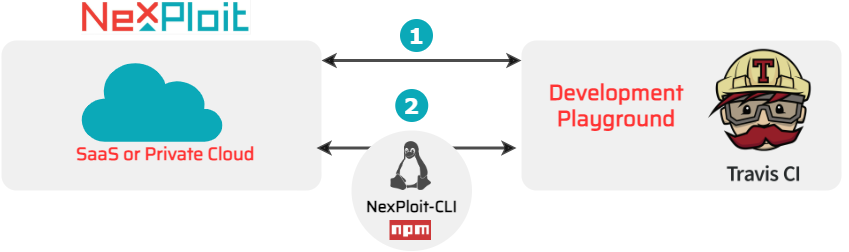
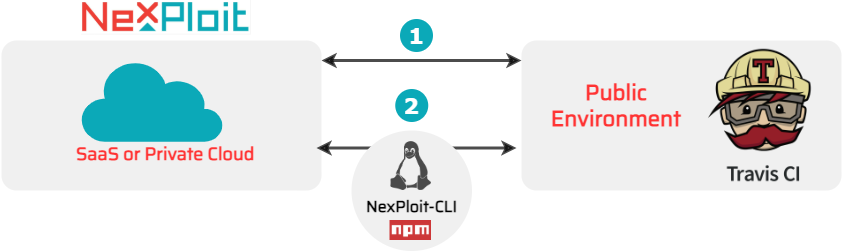
travis typos

Changed region(s): [[0.6431, 0.3333, 0.8269, 0.5278]]

diff --git a/docs/guide/pipeline-integration/pipe-management/travis/use-cases.md b/docs/guide/pipeline-integration/pipe-management/travis/use-cases.md
@@ -17,10 +17,10 @@
 
 
 ## Use Cases
-### Scanning a target in a private environment
+### Scanning a Target in a Private Environment
 You can run fast scans of the application which is currently under development within your pipeline. NexPloit allows you to follow the fail-fast principle by interrupting a scan automatically at the first detected vulnerability. Using this option, you are able to quickly and timely find and fix the security issues at the build level without delaying the whole development process.
 
-As the scan target is closed within your pipeline, NexPlot engine cannot access it directly from the cloud. In this case, you can use the [Repeater](/guide/introduction/deployment-onprem.md) (NexPloit local agent) which serves as a request-proxy between NexPloit and the scan target inside your private environment.  You should first create a Repeater instance on the [nexploit.app](https://nexploit.app), and then connect it to your pipeline using the created Repeater ID. 
+As the scan target is closed within your pipeline, NexPlot engine cannot access it directly from the cloud. In this case, you can use the [Repeater](/guide/introduction/deployment-onprem.md) (NexPloit local agent) which serves as a request-proxy between NexPloit and the scan target inside your private environment.  You should first create a Repeater on the [nexploit.app](https://nexploit.app), and then connect it to your pipeline using the created Repeater ID. 
 
 To run scans directly from your pipeline, you need to install the NexPloi CLI. It provides an easy-to-use interface and multiple [commands](guide/np-cli/command-list.md) you can use in your Travis flow. 
 
@@ -28,7 +28,7 @@ You can either run the NexPloit CLI with the Repeater using the [NPM](guide/pipe
 
  ![travis-flow](../media/travis/travis-flow.png ':size=45%')
 
- ### Scanning a target in a public environment
+ ### Scanning a Target in a Public Environment
  Upon a release of a new build, you can run an overall complete scan of the target in the production or public pre-production environment. In this case, long scans will not interfere with the development process as compared to scanning in the private environment.  
 
  Depending on the access to the deployed target, you can run a scan using multiple options.
@@ -38,7 +38,7 @@ You can either run the NexPloit CLI with the Repeater using the [NPM](guide/pipe
 
  ![repeater-npm](../media/travis/repeater-npm.png ':size=65%')
 
- * If the scan target has a limited access (for example, hosted on local microservers): you can use the [Repeater](/guide/introduction/deployment-onprem.md) (NexPloit local agent) to ensure secure communication between NexPloit and the target. In this case, you can control scanning  only via the Nexploit CLI which can be installed using either ![three](../media/travis/3.png ':size=3%') the [NPM](guide/pipeline-integration/pipe-management/travis/examples.md) or ![four](../media/travis/4.png ':size=3%')the [Docker image](guide/pipeline-integration/pipe-management/travis/examples.md).
+ * If the scan target has a private access (or if you want to scan specific local microservices), you can use the [Repeater](/guide/introduction/deployment-onprem.md) (NexPloit local agent) to ensure secure communication between NexPloit and the target. In this case, you can control scanning  only via the Nexploit CLI which can be installed using either ![three](../media/travis/3.png ':size=3%') the [NPM](guide/pipeline-integration/pipe-management/travis/examples.md) or ![four](../media/travis/4.png ':size=3%')the [Docker image](guide/pipeline-integration/pipe-management/travis/examples.md).
 
   ![docker-npm](../media/travis/docker-npm.png ':size=45%')
 

diff --git a/docs/guide/np-web-ui/scanning/creating-new-scan.md b/docs/guide/np-web-ui/scanning/creating-new-scan.md
@@ -123,7 +123,7 @@ The quality of the scan depends directly on the HAR file quality. The more detai
 
 You can use various methods to collect the application behavior information, for example by using a QA tool (such as Selenium). Alternatively, you can create a HAR file manually by using your web browser's built-in DevTools, as described below.
 
-### Step-by-Step Guide
+### Step-by-Step Guide <!-- {docsify-ignore} -->
 1. In your browser, open the DevTools pane. In most browsers, this can be done using the F12 key on your keyboard or by selecting the **Inspect** option from the browser menu. 
 
     ![DevTools](media/open-devtools.png ':size=45%')
